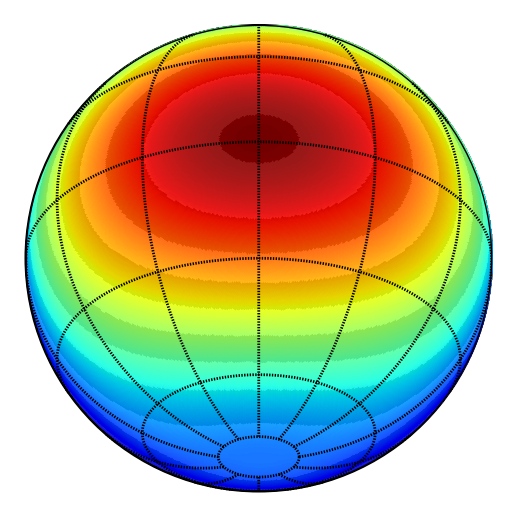
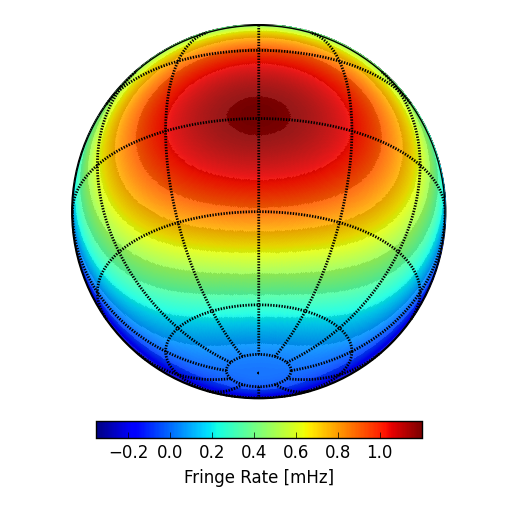
Update of figure captions and fringe-rate contour figure, up through fig 6

diff --git a/fringe_filter.tex b/fringe_filter.tex
@@ -149,10 +149,10 @@ to time variation in $V_{b\nu}(t)$ as the Earth rotates.
 \includegraphics[width=.9\columnwidth]{plots/ew_fringe}
 \caption{
 The fringe pattern at 150 MHz of a 30-m east-west baseline, overlaid with arrows indicating
-the distance traversed by sources at various declinations over a two-hour span centered at transit.
+the distance traversed by sources at various declinations over a two-hour time span centered at transit.
 In a fixed time interval, sources near $\delta=0^\circ$ traverse more 
-fringe periods than sources nearer to the celestial poles, giving rise to different
-fringe rates that can be used to distinguish these sources in a timeseries measured with a single baseline.
+fringe periods than sources nearer to the celestial poles. This gives rise to different
+fringe rates that can be used to distinguish sources in a timeseries measured with a single baseline.
 }\label{fig:ew_fringe}
 \end{figure}
 
@@ -538,10 +538,11 @@ In Figure XXX, we show... [XXX uncomment out stuff below to talk about the simul
 \begin{figure}\centering
 \includegraphics[width=0.9\columnwidth]{plots/src_track_flat.png}
 \caption{
-Fringe amplitude before (black) and after (red) the application
-of the fringe-rate filter described in \S\ref{sec:Implementation}.  From top to bottom,
-the panels illustrate the real component of the visibility measured by
-a 30-m east-west baseline deployed at a latitude of $-30^\circ$ 
+The real component of the fringe amplitude simulated for a 30-m east-west
+baseline deployed at a latitude of $-30^\circ$
+before (black) and after (red) the application
+of the fringe-rate filter described in Section \ref{sec:Implementation}.  From top to bottom,
+the panels illustrate fringes
 for point sources 
 passing through the fringe pattern at declinations of $0^\circ$,
 $-30^\circ$, and $-60^\circ$, respectively.  In this simulation,
@@ -560,11 +561,14 @@ with the PAPER primary beam \citep{parsons_et_al2010,pober_et_al2012}.
 \begin{figure*}\centering
 \includegraphics[width=1.9\columnwidth]{plots/eff_beam.png}
 \caption{
-The effective primary beam response of a baseline, as determined from the simulations in \S\ref{sec:sim_pnt}.
-Panels indicate reconstructions of PAPER's model beam response used in the simulation (left), the 
-beam weighting that results from the application of a fringe-rate filter weighted to optimize SNR for
-a 30-m baseline with PAPER's beam response (center), and the effective primary beam response of the
-baseline after the application of the fringe-rate filter.
+The effective primary beam response of a baseline, as reconstructed from point-source simulations 
+described at the end of Section \ref{sec:PspecOptimization} and illustrated in Figures \ref{fig:src_track_flat} and
+\ref{fig:src_track_beam}. 
+The left panel shows that PAPER's model beam response is recovered from unfiltered
+visibilities; the center panel illustrates the
+beam weighting that results from applying a fringe-rate filter tuned to optimize sensitivity
+for power spectrum measurements, assuming an isotropic primary beam; the right panel
+shows the effective response after applying this fringe-rate filter to data including PAPER's model beam response.
 }\label{fig:eff_beam}
 \end{figure*}
 
@@ -573,7 +577,7 @@ baseline after the application of the fringe-rate filter.
 \caption{
 The model primary beam response of a baseline, simulated analytically using the interpretation
 of fringe-rate filtering as a spatial filter acting along fringe-rate contours.  Panels follow
-the same ordering described in Figure \ref{fig:eff_beam}.
+the same order as in Figure \ref{fig:eff_beam}.
 }\label{fig:sim_beam}
 \end{figure*}
 

diff --git a/plots/plot_fringe_contours.py b/plots/plot_fringe_contours.py
@@ -89,7 +89,9 @@ for cnt,b1 in enumerate(bin_edges[:-1]):
 
 #p.subplot(232)
 #p.imshow(proj_hmap(fng,'e'), vmax=0, vmin=-.007, origin='lower')
-m.imshow(-proj_hmap(fng,'e'), origin='lower')
+m.imshow(-1e3*proj_hmap(fng,'e'), origin='lower')
+cb = p.colorbar(shrink=.7, orientation='horizontal', pad=.05)
+cb.set_label('Fringe Rate [mHz]')
 
 #p.subplot(233)
 #p.imshow(proj_hmap(f*bm,'e'), origin='lower', alpha=.5)
